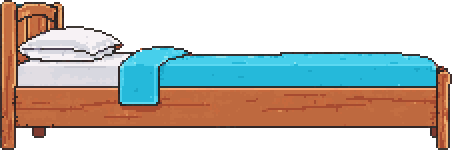
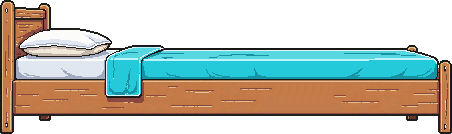
HD: muebles de todos los cuartos, jardín con árbol, casita y sol; versión 0.33.0
Cada mueble se genera completo a 400 px y se estira a su ancho real con
ensanchar.py; las medidas de FURNITURE salen del PNG final. El jardín usa
los sprites nuevos (el cuervo se sube a la copa del árbol, el perico a la
casita). DISENO.md §52 cuenta la pasada a alta resolución y README deja el
arte en 4 px por unidad.

Claude-Session: https://claude.ai/code/session_01RXm88NMkoZ62i4aJpAJzSL

diff --git a/gato-idle/src/game/places.ts b/gato-idle/src/game/places.ts
@@ -39,19 +39,19 @@ const SURFACES: Record<SurfaceKind, Surface> = {
  */
 const FURNITURE: Partial<Record<PlaceId, { ancho: number; alto: number; sobresale?: number }>> = {
   'cocina-barra': { ancho: 136.25, alto: 23.25 },
-  'sala-mesa': { ancho: 132.5, alto: 16 },
-  'sala-mueble': { ancho: 125.5, alto: 17.5 },
-  'bano-repisa': { ancho: 102.5, alto: 62, sobresale: 1.5 },
-  'recamara-cama': { ancho: 113, alto: 24.5, sobresale: 13 },
+  'sala-mesa': { ancho: 132.5, alto: 11.75 },
+  'sala-mueble': { ancho: 125.5, alto: 13.25 },
+  'bano-repisa': { ancho: 102.5, alto: 62 },
+  'recamara-cama': { ancho: 113, alto: 21.5, sobresale: 12 },
   'recamara-escritorio': { ancho: 95, alto: 27 },
-  'jardin-mesa': { ancho: 112, alto: 16 },
-  'estudio-escritorio': { ancho: 123, alto: 33 },
+  'jardin-mesa': { ancho: 112, alto: 13 },
+  'estudio-escritorio': { ancho: 123, alto: 26.75 },
   'estudio-repisa': { ancho: 109, alto: 62 },
-  'salon-mesa': { ancho: 99, alto: 20.5 },
-  'salon-mueble': { ancho: 128, alto: 26.5 },
-  'cine-mueble': { ancho: 125, alto: 21 },
-  'alberca-mesa': { ancho: 94.5, alto: 18.5 },
-  'cohete-mueble': { ancho: 134, alto: 25.5 },
+  'salon-mesa': { ancho: 99, alto: 19.75 },
+  'salon-mueble': { ancho: 128, alto: 20 },
+  'cine-mueble': { ancho: 125, alto: 16.75 },
+  'alberca-mesa': { ancho: 94.5, alto: 17 },
+  'cohete-mueble': { ancho: 134, alto: 19 },
   'labluna-mesa': { ancho: 83, alto: 14.5 },
 };
 
@@ -160,7 +160,7 @@ export function drawRoom(g: Phaser.GameObjects.Graphics, room: Room, left: numbe
   // Ventana y cuadro (en el jardín: un árbol y una casita de pájaros, donde se paran el cuervo y el perico).
   const { windowY, pictureY } = perchTops(floorY);
   if (room === 'jardin') {
-    if (art.ventana && art.cuadro) drawGardenPosts(g, windowY, pictureY, floorY);
+    if (art.ventana && art.cuadro) drawGardenPost(g, pictureY, floorY);
     else drawGardenPerches(g, windowY, pictureY, floorY);
   } else if (!art.ventana) {
     const wx = WINDOW_X - 24;
@@ -310,11 +310,8 @@ function drawFloor(g: Phaser.GameObjects.Graphics, room: Room, left: number, w: 
 }
 
 /** Rama (donde se para el cuervo) y casita de pájaros (el perico se para en el techo). */
-/** Con arte (ventana_jardin.png = copa del árbol, cuadro_jardin.png = casita): el tronco y el poste hasta el piso. */
-function drawGardenPosts(g: Phaser.GameObjects.Graphics, windowY: number, pictureY: number, floorY: number): void {
-  const trunkTop = windowY + 40 - 6;
-  g.fillStyle(0x6b4a2a).fillRect(WINDOW_X - 5, trunkTop, 10, floorY - trunkTop);
-  g.fillStyle(0x4a3018).fillRect(WINDOW_X + 3, trunkTop, 2, floorY - trunkTop).fillRect(WINDOW_X - 2, trunkTop + 8, 1, 12);
+/** Con arte (ventana_jardin.png = árbol parado en el pasto, cuadro_jardin.png = casita): el poste de la casita hasta el piso. */
+function drawGardenPost(g: Phaser.GameObjects.Graphics, pictureY: number, floorY: number): void {
   const postTop = pictureY + 22 - 4;
   g.fillStyle(0x9a6a3c).fillRect(129, postTop, 4, floorY - postTop);
   g.fillStyle(0x6b4a2a).fillRect(132, postTop, 1, floorY - postTop);

diff --git a/gato-idle/src/game/MainScene.ts b/gato-idle/src/game/MainScene.ts
@@ -355,7 +355,8 @@ export class MainScene extends Phaser.Scene {
     // Ventana y cuadro: abajo al centro de su lugar (el cuervo y el perico se paran encima).
     const { windowY, pictureY } = perchTops(this.floorY);
     r.ventana.setVisible(art.ventana);
-    if (r.ventana.visible) r.ventana.setTexture(`ventana_${room}`).setPosition(WINDOW_X, windowY + 40);
+    // En el jardín la "ventana" es un árbol parado en el pasto (el cuervo se sube a la copa).
+    if (r.ventana.visible) r.ventana.setTexture(`ventana_${room}`).setPosition(WINDOW_X, room === 'jardin' ? this.floorY : windowY + 40);
     r.cuadro.setVisible(art.cuadro);
     if (r.cuadro.visible) r.cuadro.setTexture(`cuadro_${room}`).setPosition(131, pictureY + 22);
     r.sol.setVisible(room === 'jardin' && has('sol'));

diff --git a/gato-idle/README.md b/gato-idle/README.md
@@ -5,7 +5,7 @@ Idle de un gato que tira las cosas de su dueño, de un vaso a la Luna. Celular p
 - Diseño completo: [`docs/DISENO.md`](docs/DISENO.md)
 - Prompt original: [`docs/prompt-original.md`](docs/prompt-original.md)
 
-**Estado:** versión 0.32.0. Al empezar solo se puede dar manotazos; Fuerza, Valor, patrocinios (dinero por ver un anuncio cada 90 s), **críticos** (Garras afiladas y Sombrero ridículo; con las **Garras marcadoras**, cada crítico marca el objeto 10 s y la pandilla pega más), **Saco de jefe** (más daño para los aliados) —las tres cambian el aspecto del gato—, 7 aliados (gatito bebé, ratón, perro, perico, cuervo, mapache, cabra; cada uno mejor que el anterior) la Investigación gatuna y el **Canal del dueño** se van descubriendo conforme se avanza. A media partida el dueño cacha al gato y empieza a grabar: **subir el video** es el reinicio (con opción de **×2 viendo un anuncio**), y deja seguidores (el récord del canal: bono permanente y abren pisos) y visualizaciones, que se gastan en el **árbol del canal**: 4 ramas (Manotazo, Pandilla, Producción, Viral) de 3 pisos, y se puede reiniciar viendo 3 anuncios. 63 objetos, cada uno con su sonido y en su cuarto: 27 en el departamento (cocina, sala, baño, recámara, cuarto de lavado), 12 en la **casa con jardín** (jardín, estudio, cochera), 12 en la **mansión** (salón, cine, alberca) y 12 en **la Luna** (cohete, laboratorio lunar, superficie). El dueño **se muda** a la casa al juntar 80 seguidores y 450K visualizaciones en total, y a la mansión con 400 seguidores, 2.5M visualizaciones y tras vencer al Pepino; desde entonces cada video reinicia en la casa nueva. Al final de cada casa espera un **jefe** (30 segundos para quitarle la vida, con trofeo para siempre): la **Escoba Furiosa** en el departamento, el **Pepino Gigante** en la casa, la **Aspiradora Industrial** en la mansión y el **Veterinario Espacial** en la Luna. **La maquinita del gato** (tragamonedas con fichas, sin dinero real) da premios y un "¿Doble o nada?". Con la segunda casa se abre el **ranking de gatos** (trofeo de arriba): el nivel es el objeto más lejano alcanzado; en la versión compartida por Claude la tabla es compartida. Números de daño con estilo propio y fáciles de leer (fuente Jersey 10 para cifras), medidor de daño por segundo en la escena, compra ×1/×10, moneda con gatito y viñetas de cómic la primera vez que llega una mejora, un aliado o un objeto. La pandilla sigue trabajando mientras no juegas (hasta 2 h, con opción de duplicar viendo un anuncio). **Tutorial** corto en contexto: el gato explica un paso a la vez y una manita señala qué tocar (se puede saltar). **Arte de PixelLab estilo meme**, también en los **cuartos** (paredes, pisos, ventanas, cuadros y muebles) , en los **íconos** (ya no hay emojis), en los **botones y paneles** y en el **ícono de la app** (el gato y el gatito sueltan el manotazo de verdad): el gato con cara de susto y una uva en la cabeza, el shiba de reojo, la cabra que grita, el gato en el robot aspiradora y 27 objetos con su chiste. El progreso se guarda. Botón 🛠 (arriba a la derecha) con el **modo pruebas**: dinero infinito, daño ∞, avanzar como jugador hasta cualquier objeto y puntos de guardado.
+**Estado:** versión 0.33.0. Al empezar solo se puede dar manotazos; Fuerza, Valor, patrocinios (dinero por ver un anuncio cada 90 s), **críticos** (Garras afiladas y Sombrero ridículo; con las **Garras marcadoras**, cada crítico marca el objeto 10 s y la pandilla pega más), **Saco de jefe** (más daño para los aliados) —las tres cambian el aspecto del gato—, 7 aliados (gatito bebé, ratón, perro, perico, cuervo, mapache, cabra; cada uno mejor que el anterior) la Investigación gatuna y el **Canal del dueño** se van descubriendo conforme se avanza. A media partida el dueño cacha al gato y empieza a grabar: **subir el video** es el reinicio (con opción de **×2 viendo un anuncio**), y deja seguidores (el récord del canal: bono permanente y abren pisos) y visualizaciones, que se gastan en el **árbol del canal**: 4 ramas (Manotazo, Pandilla, Producción, Viral) de 3 pisos, y se puede reiniciar viendo 3 anuncios. 63 objetos, cada uno con su sonido y en su cuarto: 27 en el departamento (cocina, sala, baño, recámara, cuarto de lavado), 12 en la **casa con jardín** (jardín, estudio, cochera), 12 en la **mansión** (salón, cine, alberca) y 12 en **la Luna** (cohete, laboratorio lunar, superficie). El dueño **se muda** a la casa al juntar 80 seguidores y 450K visualizaciones en total, y a la mansión con 400 seguidores, 2.5M visualizaciones y tras vencer al Pepino; desde entonces cada video reinicia en la casa nueva. Al final de cada casa espera un **jefe** (30 segundos para quitarle la vida, con trofeo para siempre): la **Escoba Furiosa** en el departamento, el **Pepino Gigante** en la casa, la **Aspiradora Industrial** en la mansión y el **Veterinario Espacial** en la Luna. **La maquinita del gato** (tragamonedas con fichas, sin dinero real) da premios y un "¿Doble o nada?". Con la segunda casa se abre el **ranking de gatos** (trofeo de arriba): el nivel es el objeto más lejano alcanzado; en la versión compartida por Claude la tabla es compartida. Números de daño con estilo propio y fáciles de leer (fuente Jersey 10 para cifras), medidor de daño por segundo en la escena, compra ×1/×10, moneda con gatito y viñetas de cómic la primera vez que llega una mejora, un aliado o un objeto. La pandilla sigue trabajando mientras no juegas (hasta 2 h, con opción de duplicar viendo un anuncio). **Tutorial** corto en contexto: el gato explica un paso a la vez y una manita señala qué tocar (se puede saltar). **Arte de PixelLab estilo meme en alta resolución** (el doble de píxeles, mismo trazo en todo), también en los **cuartos** (paredes, pisos, ventanas, cuadros y muebles) , en los **íconos** (ya no hay emojis), en los **botones y paneles** y en el **ícono de la app** (el gato y el gatito sueltan el manotazo de verdad): el gato con cara de susto y una uva en la cabeza, el shiba de reojo, la cabra que grita, el gato en el robot aspiradora y 27 objetos con su chiste. El progreso se guarda. Botón 🛠 (arriba a la derecha) con el **modo pruebas**: dinero infinito, daño ∞, avanzar como jugador hasta cualquier objeto y puntos de guardado.
 
 ## Requisitos
 
@@ -72,7 +72,7 @@ apk-prueba/    APK de prueba sin Gradle (visor WebView)
 - **Textos**: `src/i18n/es.json` y `en.json`. Las pruebas verifican que ambos tengan las mismas claves.
 - **Nombre del juego**: `app.title` en los dos JSON de textos, `appName` en `capacitor.config.ts` y `<title>` en `index.html`.
 - **Humor**: es un principio de diseño (ver `docs/DISENO.md` §22). Todo lo nuevo debería tener su chiste.
-- **Arte**: los PNG de PixelLab están en `src/assets/arte/` y se cargan con la clave de su nombre (las mismas que `sprite` en `objects.json` y que `SPRITES`); lo que no tenga PNG se dibuja en código (`src/game/placeholders.ts`). El arte va a 2 píxeles por unidad del mundo. Para generar más: `tools/arte/generar.py` (lee la llave de `PIXELLAB_TOKEN`, nunca la guardes en el repo). Ver `docs/DISENO.md` §33.
+- **Arte**: los PNG de PixelLab están en `src/assets/arte/` y se cargan con la clave de su nombre (las mismas que `sprite` en `objects.json` y que `SPRITES`); lo que no tenga PNG se dibuja en código (`src/game/placeholders.ts`). El arte va a 4 píxeles por unidad del mundo (`ART` en `sceneSize.ts`), con un solo estilo: contorno grueso y 3 tonos. Para generar más: `tools/arte/generar.py` (lee la llave de `PIXELLAB_TOKEN`, nunca la guardes en el repo). Ver `docs/DISENO.md` §33.
 
 ## Notas técnicas
 

diff --git a/gato-idle/docs/DISENO.md b/gato-idle/docs/DISENO.md
@@ -985,3 +985,26 @@ Además de las 171 pruebas unitarias (`npm test`), `npm run e2e` juega el juego 
 La primera corrida encontró un error real: el botón **¡Ya!** de la revancha no se podía tocar (el recuadro tenía `pointer-events: none` y el botón lo heredaba). Corregido: el recuadro deja pasar los toques a la escena y el botón sí responde.
 
 Antes de cada versión: `npm test`, `npx tsc --noEmit -p .`, `npx svelte-check` y `npm run e2e`. Lo que falta para la tienda (cuentas, firma, política de privacidad en línea, prueba cerrada) está en `docs/PUBLICAR.md`.
+
+## 52. Arte en alta resolución con un solo estilo (versión 0.33.0)
+
+El problema: el juego se veía disparejo. Los personajes medían 28 px y PixelLab no alcanzaba a dibujarles cara; cada tanda de arte se había pedido con palabras distintas, así que el gato, la pandilla, los objetos y los cuartos no parecían del mismo juego.
+
+La solución, en dos partes:
+
+1. **El doble de píxeles.** `ART` pasa de 2 a 4 píxeles por unidad del mundo (`sceneSize.ts`); las unidades, los lugares y la lógica no cambian, solo la escala con que se dibuja el arte. La escena enseña al menos 120 unidades de ancho (`VIEW_MIN_WIDTH`) y la cámara sigue al gato cuando el cuarto no cabe (`cameraScroll`); en pantallas chicas la escala puede ser fraccionaria (antes era entera y en PC no había acercamiento).
+2. **Un solo estilo.** Todo se pidió con el mismo remate: "detailed high resolution pixel art, thick dark outline, 3-tone cel shading, vibrant colors". Elenco (gato y sus 5 poses, 7 aliados, dueño, sombrero), 63 objetos, 4 jefes con su derrotado y los 14 cuartos (pared, piso, ventana, cuadro y mueble) se regeneraron con PixelLab a partir del arte viejo escalado como guía de forma, para que cada cosa siguiera siendo la misma.
+
+Técnicas (todas en `tools/arte/`):
+
+| Qué | Cómo |
+|---|---|
+| Objetos y cuadros/ventanas ≤256 px | `edit-image-pixen` (redibuja respetando la forma); `editar.py` |
+| Jefes y objetos grandes (≤400 px) | `create-image-pixflux` con `init_image` (fuerza 90–110); `generar.py` |
+| Texturas de pared y piso | pixflux 128×128 con fuerza 60 (se repiten); se copian tal cual |
+| Muebles más anchos que 400 px | se generan **completos** a 400 px (`muebles_hd.py`) y `ensanchar.py` los estira a su ancho real repitiendo la franja vertical más lisa (la que mejor se repite sin costura); partirlos en mitades no sirvió (cada mitad inventaba cajones o almohadas) |
+| Instalar | `instalar.py`: quita motas, quita fondos sólidos por inundación desde las esquinas y recorta; `clave=nombre:marco` da el mismo recorte a los cuadros del manotazo |
+
+Cambios de escena que salieron de esto: los personajes ya no "respiran" (se veía raro en los aliados); el pedazo de un objeto que cae de un solo golpe cae en su lugar y no fuera de la pantalla; el gato ya no se sube al carro ni a la aspiradora; los jefes se encogen lo necesario para caber bajo el marcador (`BOSS_HEADROOM`); el jardín usa sprites (árbol parado en el pasto con el cuervo en la copa, casita de pájaros sobre un poste y sol) en vez de rectángulos. Las medidas de `FURNITURE` en `places.ts` salen del PNG final (ancho y alto entre 4; `sobresale` es lo que el dibujo sube por encima de la cubierta, como la cabecera de la cama).
+
+Pendiente: un segundo cuadro de reposo dibujado por personaje (en vez de estirar el sprite) y la tanda de eventos aleatorios.
